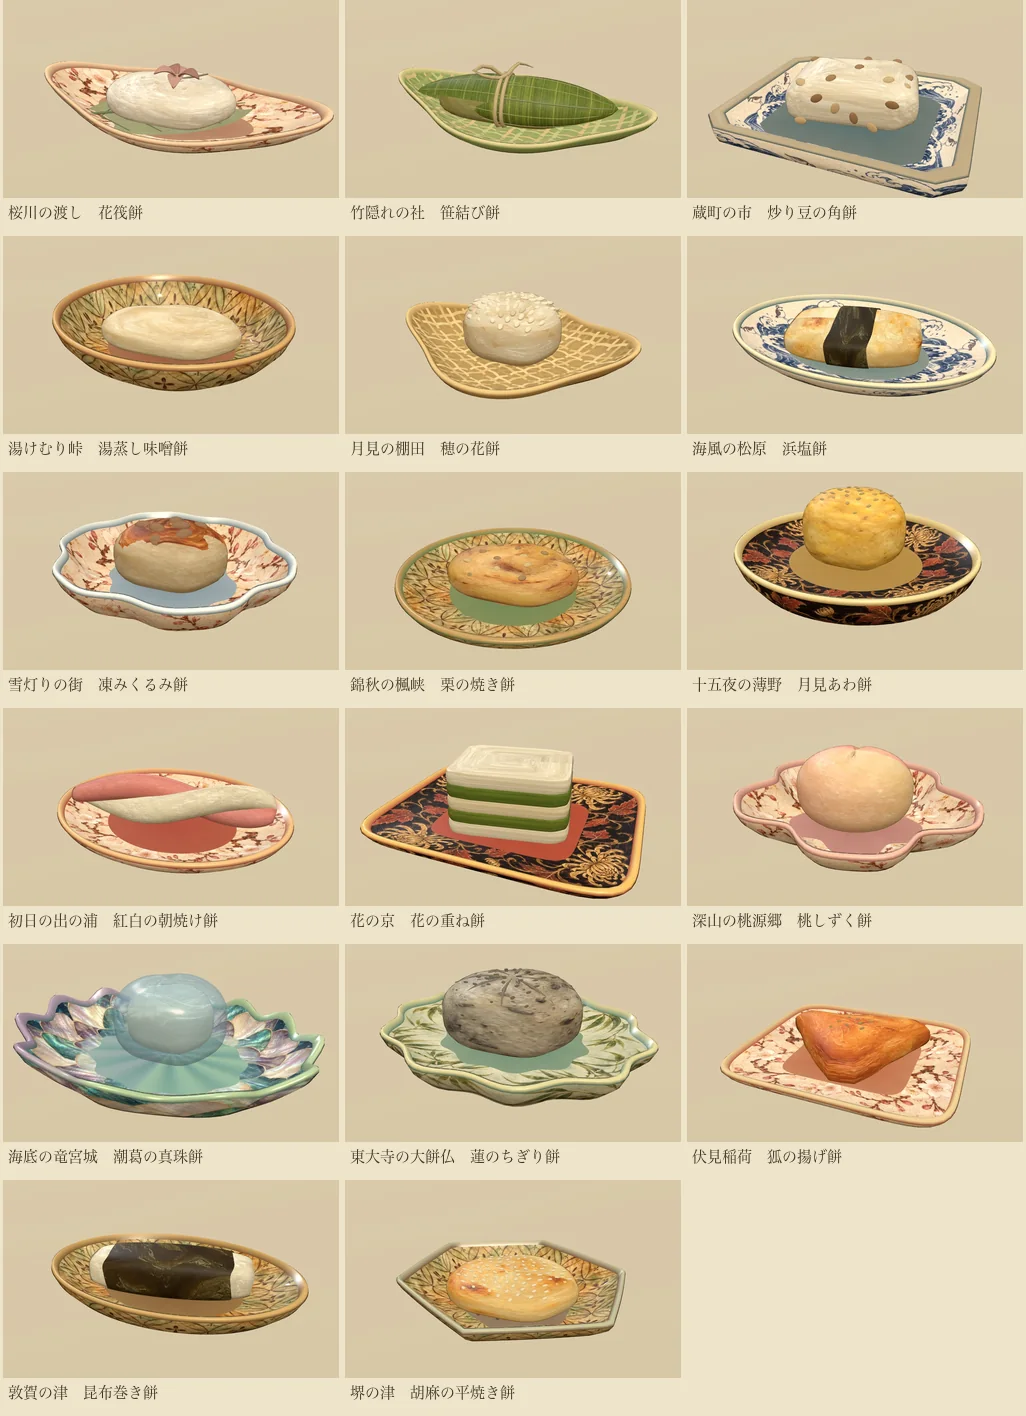
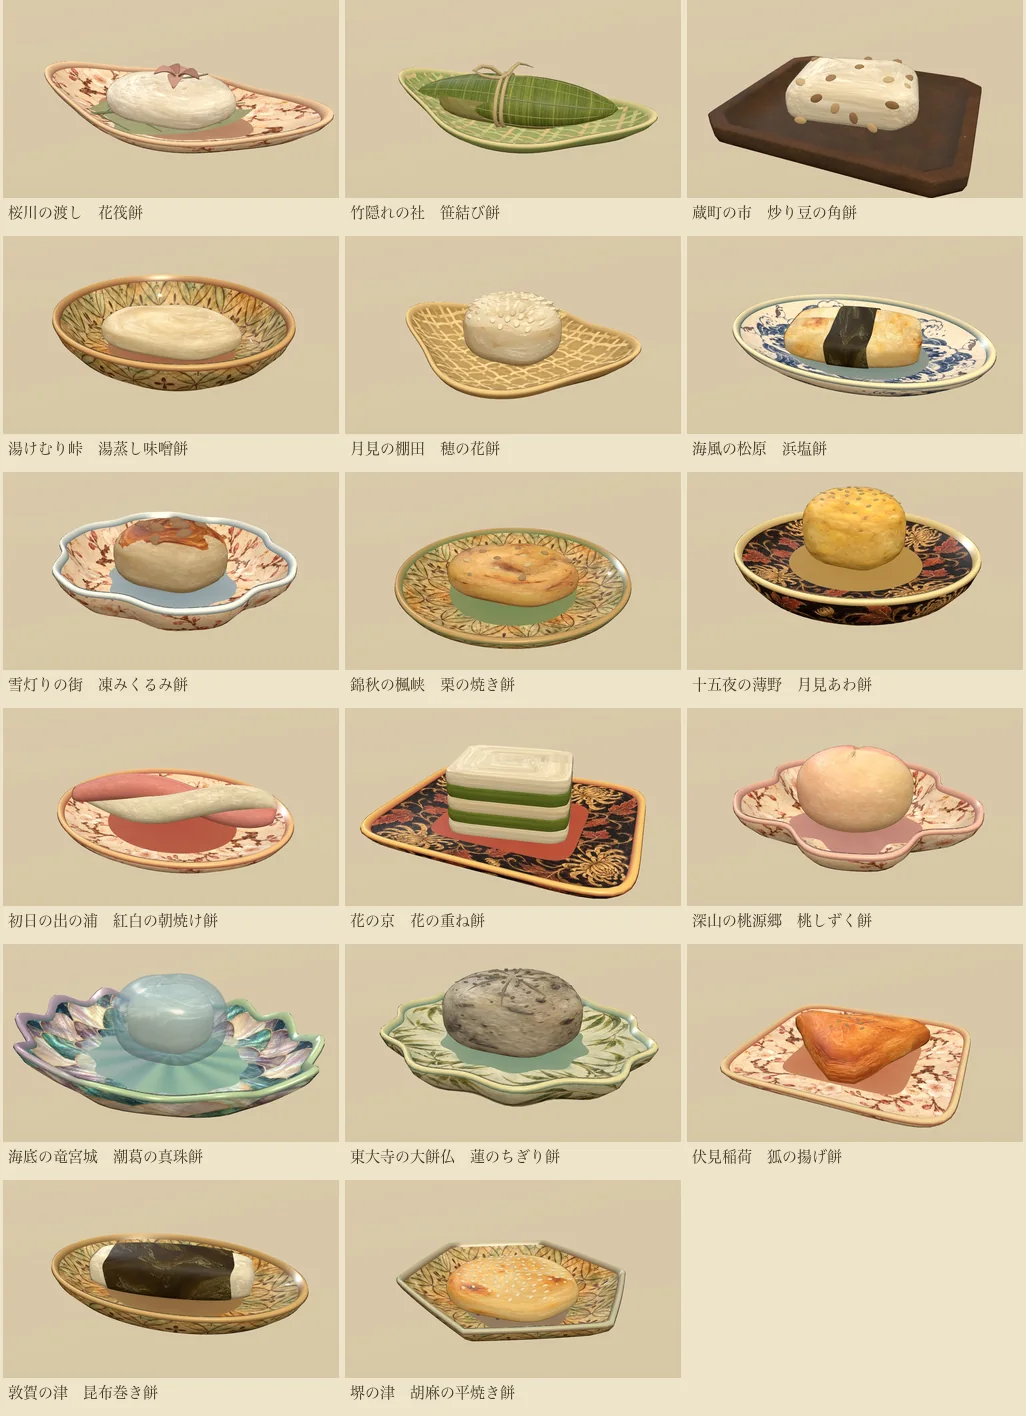
Give the Kuramachi stoneware dish a rugged iron glaze

Changed region(s): [[0.6862, 0.0311, 0.9669, 0.1554]]

diff --git a/two/story-tableware.js b/two/story-tableware.js
@@ -6,7 +6,7 @@ import { brushWash } from './scroll-sculpt.js';
 const wares=[null,
   ['桜川の舟皿','boat',.37,.209,.039,.085,'#925a45','#e8c7a4',0,'wood'],
   ['笹編みの長目皿','leaf',.355,.19,.028,.072,'#739043','#d4c693',1,'bamboo'],
-  ['藍鉄釉の厚手角皿','chamfer',.310,.247,.045,.092,'#385e69','#ad9c7f',2,'stoneware'],
+  ['鉄釉の厚手角皿','chamfer',.310,.247,.045,.092,'#f0eae0','#ffdfbd',null,'stoneware'],
   ['峠の鉄絵鉢','round',.303,.269,.062,.162,'#864531','#d5a867',5,'glaze'],
   ['稲穂色の浅箕','leaf',.319,.245,.032,.077,'#a2783b','#dfbf82',1,'bamboo'],
   ['浜千鳥の長皿','round',.350,.232,.047,.103,'#246376','#f1e3ba',2,'glaze'],
@@ -48,6 +48,31 @@ function outline(type,a){
   }
 }
 const colour=(s)=>new T.Color(s);
+function marketStoneware(){
+  const loader=new T.TextureLoader();
+  const clay=loader.load(new URL('./assets/world/market-ironware.webp',import.meta.url).href);
+  const surface=loader.load(new URL('./assets/world/market-ironware-surface.webp',import.meta.url).href);
+  clay.colorSpace=T.SRGBColorSpace;
+  for(const map of [clay,surface]){
+    map.wrapS=map.wrapT=T.MirroredRepeatWrapping;
+    map.anisotropy=4;
+  }
+  // Red encodes small pits and mineral grains; green carries the dry-to-burnished finish.
+  return brushWash(new T.MeshStandardMaterial({map:clay,bumpMap:surface,bumpScale:.00065,
+    roughnessMap:surface,roughness:1,vertexColors:true,side:T.DoubleSide}),.045);
+}
+function slabTextureRadii(levels,span){
+  // Lay the clay surface flat from the well, over the lip and down the wall.
+  // Arc length keeps the grain visible on the nearly vertical edge.
+  const radii=levels.map(([r])=>r);
+  const foot=4;
+  for(let j=levels.length-2;j>=foot;j--){
+    const [r,y]=levels[j],[nextR,nextY]=levels[j+1];
+    radii[j]=radii[j+1]+Math.hypot(nextR-r,(nextY-y)/span);
+  }
+  for(let j=0;j<foot;j++)radii[j]*=radii[foot]/levels[foot][0];
+  return radii;
+}
 function splitBamboo(w,d,floor,h,form,n){
   const positions=[],cols=[],faces=[],angle=n===2?.08:.58,cs=Math.cos(angle),sn=Math.sin(angle);
   const shades=(n===2?['#b8b77b','#969c5f','#cab078']:['#d6b570','#b29455','#dec78b']).map(colour);
@@ -82,7 +107,7 @@ function splitBamboo(w,d,floor,h,form,n){
 function build(n){
   const [name,form,w,d,floor,h,coat,lip,row,kind]=wares[n], g=new T.Group(); g.name=name;g.userData.floor=floor;
   const stoneware=kind==='stoneware';
-  const pigment=colour(coat), trim=colour(lip), biscuit=stoneware?colour('#79624d'):kind==='glaze'?colour('#bda883'):pigment.clone().multiplyScalar(.72);
+  const pigment=colour(coat), trim=colour(lip), biscuit=stoneware?colour('#f4d5b4'):kind==='glaze'?colour('#bda883'):pigment.clone().multiplyScalar(.72);
   const glossy=kind==='shell'||kind==='lacquer'||kind==='glaze';
   // The market dish is pressed from a slab. Its broad foot, nearly upright
   // outside wall and thumb-wide rim are visible even below the painted band.
@@ -90,6 +115,7 @@ function build(n){
     ? [[0,.009],[.52,.009],[.57,.002],[.71,.002],[.74,.016],[.89,.027],[.98,.047],[1,.066],[1,h-.005],[.99,h],[.91,h],[.89,h-.006],[.79,floor+.012],[.68,floor+.001],[.01,floor]]
     : [[.00,.006],[.29,.006],[.32,.002],[.43,.002],[.445,floor*.62],[.65,floor*.67],[.87,h*.57],[.97,h*.82],[1,h*.99],[.994,h+.006],[.967,h+.010],[.939,h*.94],[.77,floor+.017],[.57,floor+.002],[.01,floor]];
   const pos=[],normalColours=[],uv=[],indices=[],sideCount=100;
+  const slabRadii=stoneware && slabTextureRadii(levels,(w+d)/2);
   for(let j=0;j<levels.length;j++){
     const [r,y]=levels[j];for(let i=0;i<=sideCount;i++){
       const u=i/sideCount,a=u*tau,c=Math.cos(a),s=Math.sin(a),R=r*outline(form,a);
@@ -100,21 +126,36 @@ function build(n){
       if(form==='shell')col.lerp(colour(c>0?'#bcd9ad':'#b8a0c4'),.31+.22*Math.cos(12*a+.5));
       if(j===12||j===13)col.lerp(trim,kind==='lacquer'?.06:.22);
       const hand=1+.021*Math.sin(13*a+r*7)+.008*Math.sin(a*43+3*r);
-      normalColours.push(col.r*hand,col.g*hand,col.b*hand);uv.push(u,Math.min(1,Math.max(0,j>=11?(13-j)/2:(j-5)/3)));
+      let exposure=hand;
+      if(stoneware){
+        // The thinner slip on a rubbed lip and the exposed foot reveal warmer clay.
+        const rim=j===9||j===10;
+        const wear=rim?1.50+.48*s*c+.20*Math.cos(3*a+.5):j<=4?1.64:j===11?1.02:1.24;
+        exposure*=wear;
+        const reach=slabRadii[j]*outline(form,a)/.73;
+        uv.push(.5+w*c*reach,.5+d*s*reach);
+      }else uv.push(u,Math.min(1,Math.max(0,j>=11?(13-j)/2:(j-5)/3)));
+      normalColours.push(col.r*exposure,col.g*exposure,col.b*exposure);
     }
   }
   const geometry=new T.BufferGeometry();
   for(let j=0;j<levels.length-1;j++){
     const start=indices.length;
     for(let i=0;i<sideCount;i++){const a=j*(sideCount+1)+i;indices.push(a,a+sideCount+1,a+1,a+1,a+sideCount+1,a+sideCount+2);}
-    geometry.addGroup(start,indices.length-start,((j>=5&&j<8)||(j>=11&&j<13))&&kind!=='bamboo'?1:0);
+    if(!stoneware)geometry.addGroup(start,indices.length-start,((j>=5&&j<8)||(j>=11&&j<13))&&kind!=='bamboo'?1:0);
   }
   // Merge adjacent strips using the same finish to keep the number of draw calls independent of the profile resolution.
   const groups=[];for(const strip of geometry.groups){const last=groups.at(-1);if(last?.materialIndex===strip.materialIndex)last.count+=strip.count;else groups.push({...strip});}geometry.groups=groups;
   geometry.setAttribute('position',new T.Float32BufferAttribute(pos,3));geometry.setAttribute('color',new T.Float32BufferAttribute(normalColours,3));geometry.setAttribute('uv',new T.Float32BufferAttribute(uv,2));geometry.setIndex(indices);geometry.computeVertexNormals();
-  const enamel=brushWash(new T.MeshPhysicalMaterial({vertexColors:true,side:T.DoubleSide,roughness:glossy?.32:.81,clearcoat:glossy?.53:.06,clearcoatRoughness:.29,metalness:kind==='shell'?.16:0}),.075);
-  const frieze=brushWash(new T.MeshPhysicalMaterial({map:paint(row),side:T.DoubleSide,roughness:.48,clearcoat:.28}),.07);
-  const body=new T.Mesh(geometry,[enamel,frieze]);body.castShadow=body.receiveShadow=true;g.add(body);
+  let finish;
+  if(stoneware){
+    finish=marketStoneware();
+  }else{
+    const enamel=brushWash(new T.MeshPhysicalMaterial({vertexColors:true,side:T.DoubleSide,roughness:glossy?.32:.81,clearcoat:glossy?.53:.06,clearcoatRoughness:.29,metalness:kind==='shell'?.16:0}),.075);
+    const frieze=brushWash(new T.MeshPhysicalMaterial({map:paint(row),side:T.DoubleSide,roughness:.48,clearcoat:.28}),.07);
+    finish=[enamel,frieze];
+  }
+  const body=new T.Mesh(geometry,finish);body.castShadow=body.receiveShadow=true;g.add(body);
   if(kind==='bamboo')g.add(splitBamboo(w,d,floor,h,form,n));
   if(kind==='shell'){
     const rim=new T.Shape(),level=floor+.013;

diff --git a/docs/mochiyori-review/README.md b/docs/mochiyori-review/README.md
@@ -6,7 +6,7 @@
 
 ![松原、京、竜宮の銘菓と仕事台](three-workshops.webp)
 
-蔵町の器は四隅を落とした厚手の角皿で、幅広の高台がある。楓峡では楓文を真円の皿に載せ、松原と敦賀の長皿は楕円、伏見の折敷は角を丸めた四角にした。
+蔵町の器は四隅を落とした厚手の角皿で、焦茶の鉄釉に長石の白い粒がまじる。こすれやすい口縁と幅広の高台には、温かい土色がのぞく。楓峡では楓文を真円の皿に載せ、松原と敦賀の長皿は楕円、伏見の折敷は角を丸めた四角にした。[蔵町の鉄釉角皿](kuramachi-ironware.webp)
 
 個々の模型を照明下で撮影し、現地の墨絵処理を通した画面と比較した。暗い室内でも漆と螺鈿の色が判別できるよう調整した。雪の宿の胡桃だれに生じていた欠けを直し、十七景の餅、器、卓の頂点と法線、接触面を検査した。[十七種の餅と器](food.webp) ／ [十七か所の仕事台](settlements.webp) ／ [現地での比較](regions.webp)
 
